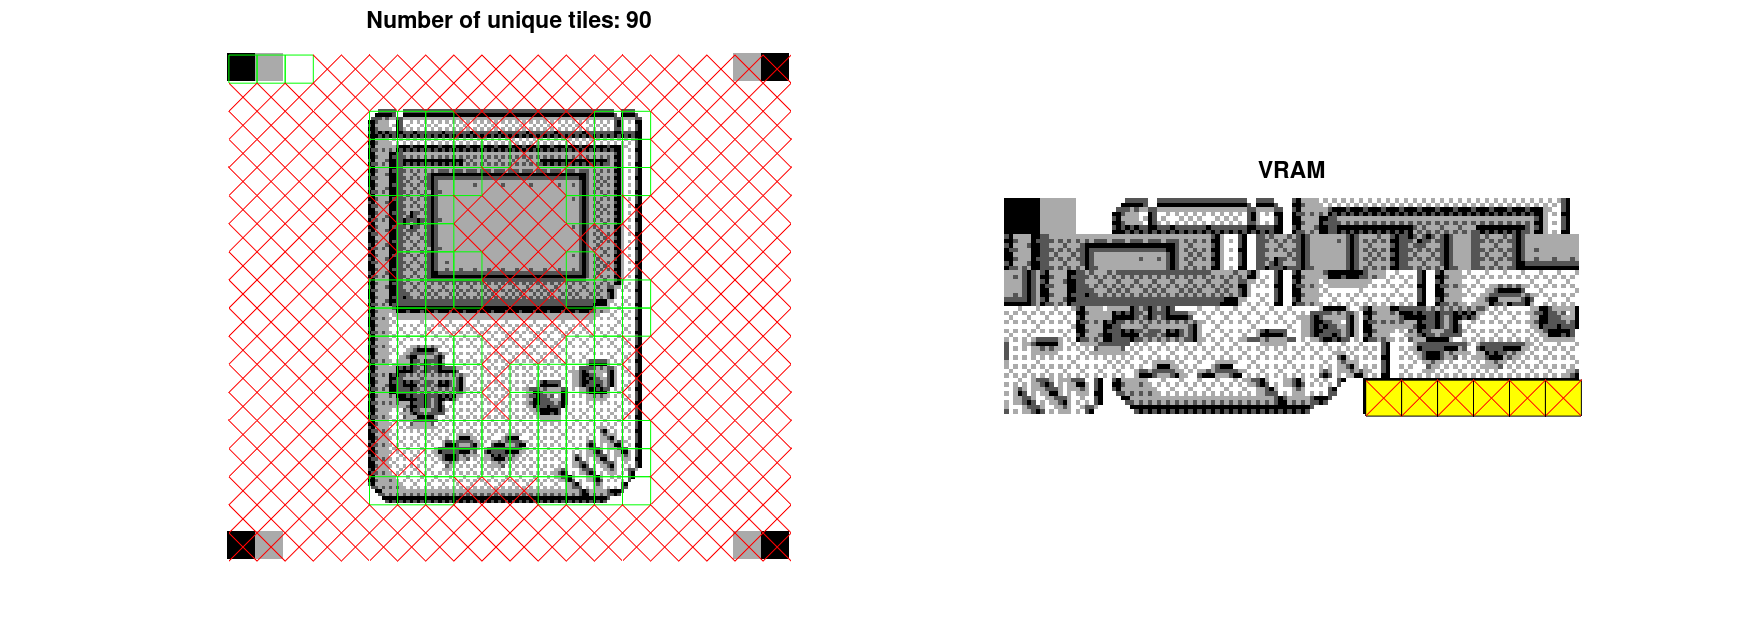
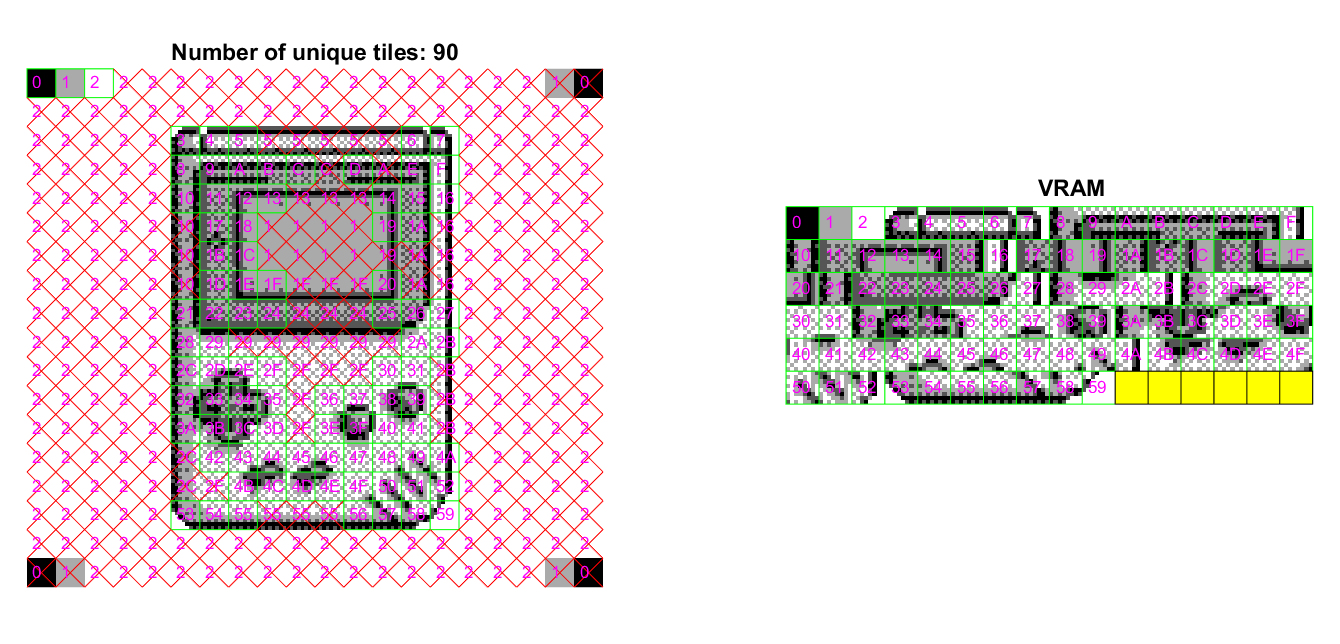
Add files via upload

diff --git a/Tile_creator_GBDK.m b/Tile_creator_GBDK.m
@@ -2,7 +2,7 @@ clc;
 clear;
 close all;
 a=imread("Test_image.png");
-figure(1)
+figure('Position',[100 100 1100 700]);
 subplot(1,2,1)
 imshow(a)
 [height, width, ~]=size(a);
@@ -62,14 +62,15 @@ for x=1:1:hor_tile
         end
         hold on
         if flag==1
-            plot([L,L+8], [H,H+8] ,'r')
-            plot([L+8,L], [H,H+8] ,'r')
+            plot([L-1/2,L-1/2+8], [H-1/2,H-1/2+8] ,'r')
+            plot([L-1/2+8,L-1/2], [H-1/2,H+8-1/2] ,'r')
+            text(L+1,H+3,dec2hex(pos_identical-1),'Color','magenta','FontSize',8)
         else
-        rectangle('Position',[L H 8 8],'EdgeColor','g')
-        title(['Number of unique tiles: ', num2str(pos)])
+            rectangle('Position',[L-1/2 H-1/2 8 8],'EdgeColor','g')
+            text(L+1,H+3,dec2hex(pos-1),'Color','magenta','FontSize',8)
+            title(['Number of unique tiles: ', num2str(pos)])
         end
         hold off
-        drawnow
         L=L+8;
         L_tile=L_tile+1;
         if L>=width
@@ -80,6 +81,7 @@ for x=1:1:hor_tile
         end
     end
 end
+drawnow
 
 %this part creates a C file for tilemap
 Tile_map=Tile_map-1;
@@ -151,6 +153,7 @@ H=1;
 L=1;
 memory=0;
 memory_width=128;
+
 for p=1:1:pos
     b=unique_tiles(:,:,p);
     memory((H:H+7),(L:L+7))=b;
@@ -161,17 +164,25 @@ for p=1:1:pos
     end
 end
 
-
 subplot(1,2,2)
-imshow(uint8(memory));
-title('VRAM')
-
 hold on
+imshow(uint8(memory));
 tiles_lacking=ceil((memory_width-L)/8);
+
+H=1;
+L=1;
+for p=1:1:pos
+    rectangle('Position',[L-1/2 H-1/2 8 8],'EdgeColor','g')
+    text(L+1,H+3,dec2hex(p-1),'Color','magenta','FontSize',8)
+    L=L+8;
+    if L>=memory_width
+        L=1;
+        H=H+8;
+    end
+end
+
 for p=1:1:tiles_lacking
-    rectangle('Position',[L H 8 8],'FaceColor','y')
-    plot([L,L+8], [H,H+8] ,'r')
-    plot([L+8,L], [H,H+8] ,'r')
+    rectangle('Position',[L-1/2 H-1/2 8 8],'FaceColor','y')
     L=L+8;
     if L>=memory_width
         L=1;
@@ -179,6 +190,8 @@ for p=1:1:tiles_lacking
     end
 end
 hold off
+
+title('VRAM')
 drawnow
 
 saveas(gcf,'Output.png');
